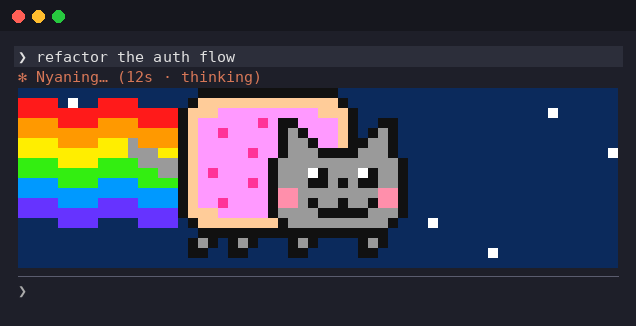
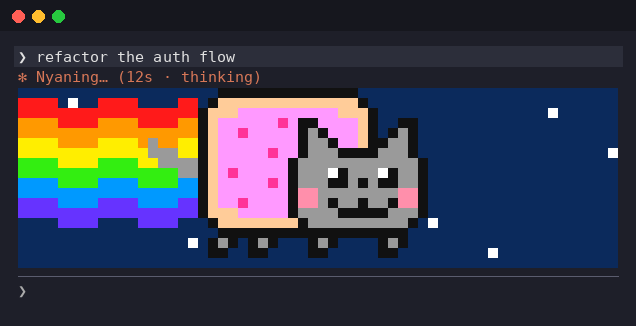
Span the band across the whole window with the cat centred
Stars repeat every 72 columns so wide windows are not empty, and the
fly-off takes the same 1.2 s at any width. Bump to 0.4.0.

Changed region(s): [[0.1792, 0.2454, 0.6871, 0.7975]]

diff --git a/plugins/nyan-cat/hooks/register.tsx b/plugins/nyan-cat/hooks/register.tsx
@@ -5,10 +5,13 @@ import type { NyanSize } from '../types'
 
 // Two pixel rows per cell: '▀' paints the top pixel as foreground, the bottom as background.
 const HALF_BLOCK = 0x2580
-const MAX_COLUMNS = 72
+// The widest Raster a surface takes; the band spans the window up to this.
+const MAX_COLUMNS = 512
+// Each sprite's stars cover this many columns; wider bands repeat them.
+const STAR_TILE = 72
 const FRAME_MS = 90
-// How far the whole picture slides right per frame once the turn ends.
-const DEPART_PIXELS = 4
+// Frames the fly-off takes once the turn ends, whatever the band's width (about 1.2 s).
+const DEPART_FRAMES = 14
 // The tail reaches this far left of the crust; the cat is gone once it clears the right edge.
 const TAIL_REACH = 5
 const KEY = 'nyan'
@@ -153,8 +156,9 @@ const SMALL: Sprite = {
 
 const SPRITES: Record<NyanSize, Sprite> = { big: BIG, small: SMALL }
 
+// Where the cat sits while flying: centred in the band.
 function catHome(columns: number, sprite: Sprite): number {
-  return Math.max(0, Math.floor(columns * 0.65) - sprite.width)
+  return Math.max(0, Math.floor((columns - sprite.width) / 2))
 }
 
 function frame(tick: number, columns: number, sprite: Sprite, offset = 0): string {
@@ -165,14 +169,18 @@ function frame(tick: number, columns: number, sprite: Sprite, offset = 0): strin
   }
 
   // Stars drift at half the frame rate and now and then glint with a faint cross.
-  for (const [sx, sy] of sprite.stars) {
-    const x = (((sx - Math.floor(tick / 2)) % columns) + columns) % columns
-    put(x, sy, STAR)
-    if ((Math.floor(tick / 2) + sx) % 10 === 0) {
-      put(x - 1, sy, STAR_GLOW)
-      put(x + 1, sy, STAR_GLOW)
-      put(x, sy - 1, STAR_GLOW)
-      put(x, sy + 1, STAR_GLOW)
+  for (let tile = 0; tile * STAR_TILE < columns; tile++) {
+    for (const [tx, sy] of sprite.stars) {
+      const sx = tx + tile * STAR_TILE
+      if (sx >= columns) continue
+      const x = (((sx - Math.floor(tick / 2)) % columns) + columns) % columns
+      put(x, sy, STAR)
+      if ((Math.floor(tick / 2) + sx) % 10 === 0) {
+        put(x - 1, sy, STAR_GLOW)
+        put(x + 1, sy, STAR_GLOW)
+        put(x, sy - 1, STAR_GLOW)
+        put(x, sy + 1, STAR_GLOW)
+      }
     }
   }
 
@@ -251,7 +259,8 @@ export const register: Register = on => {
       if (mounted === null) return
       tick += 1
       if (mounted.departure !== null) {
-        mounted.departure += DEPART_PIXELS
+        const distance = mounted.columns - catHome(mounted.columns, mounted.sprite) + TAIL_REACH
+        mounted.departure += Math.ceil(distance / DEPART_FRAMES)
         if (catHome(mounted.columns, mounted.sprite) + mounted.departure - TAIL_REACH >= mounted.columns) {
           mounted = null
           $.ui.invalidate('ui.render')
